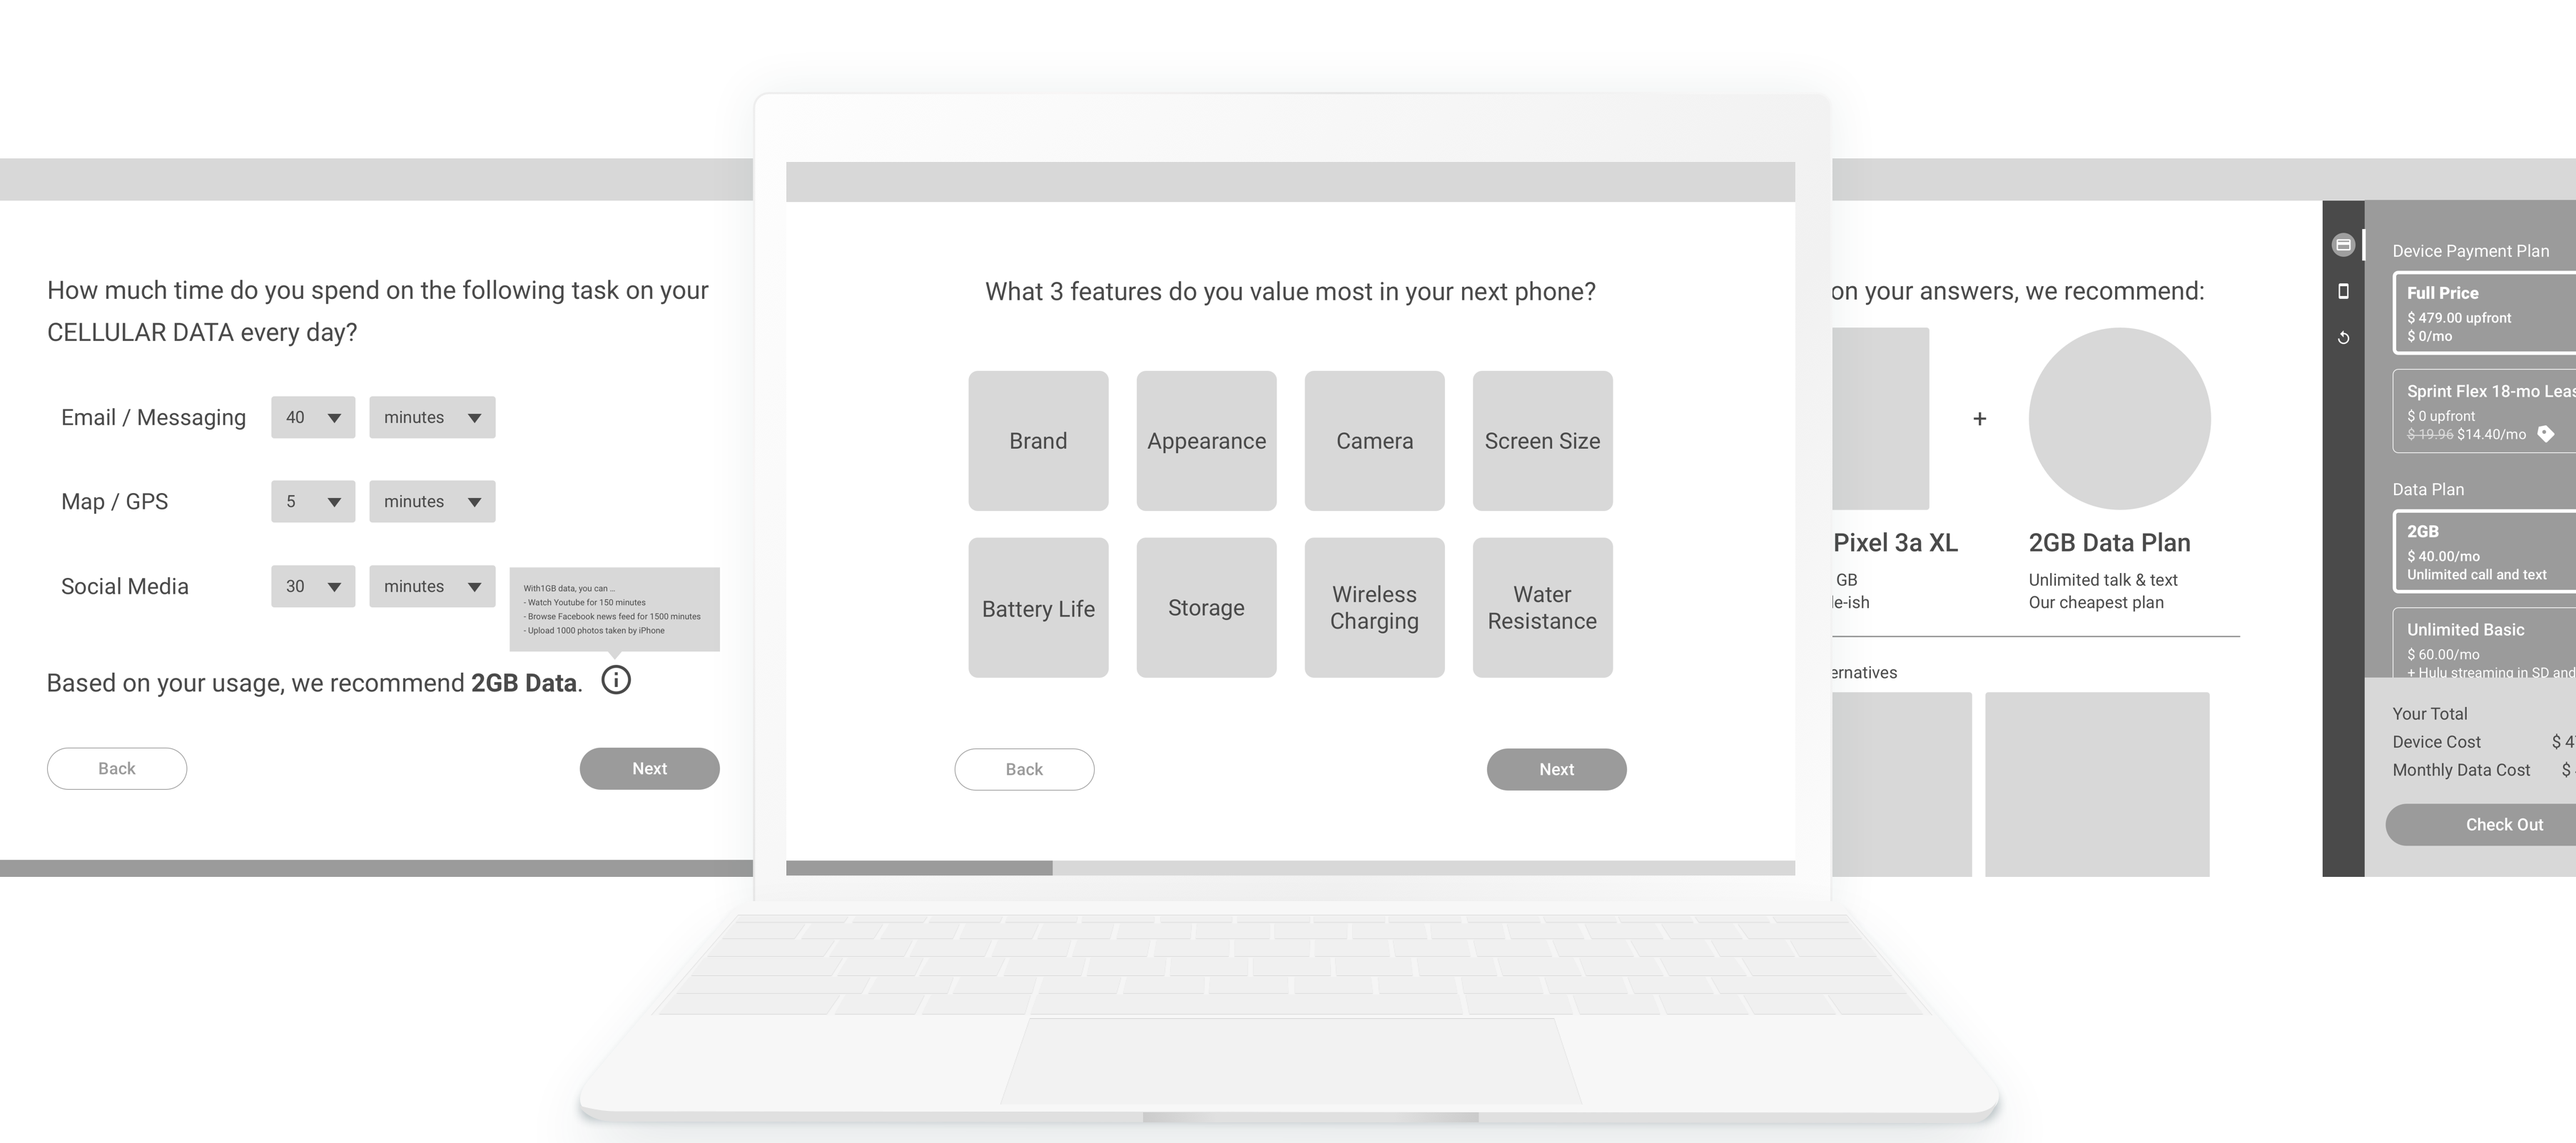
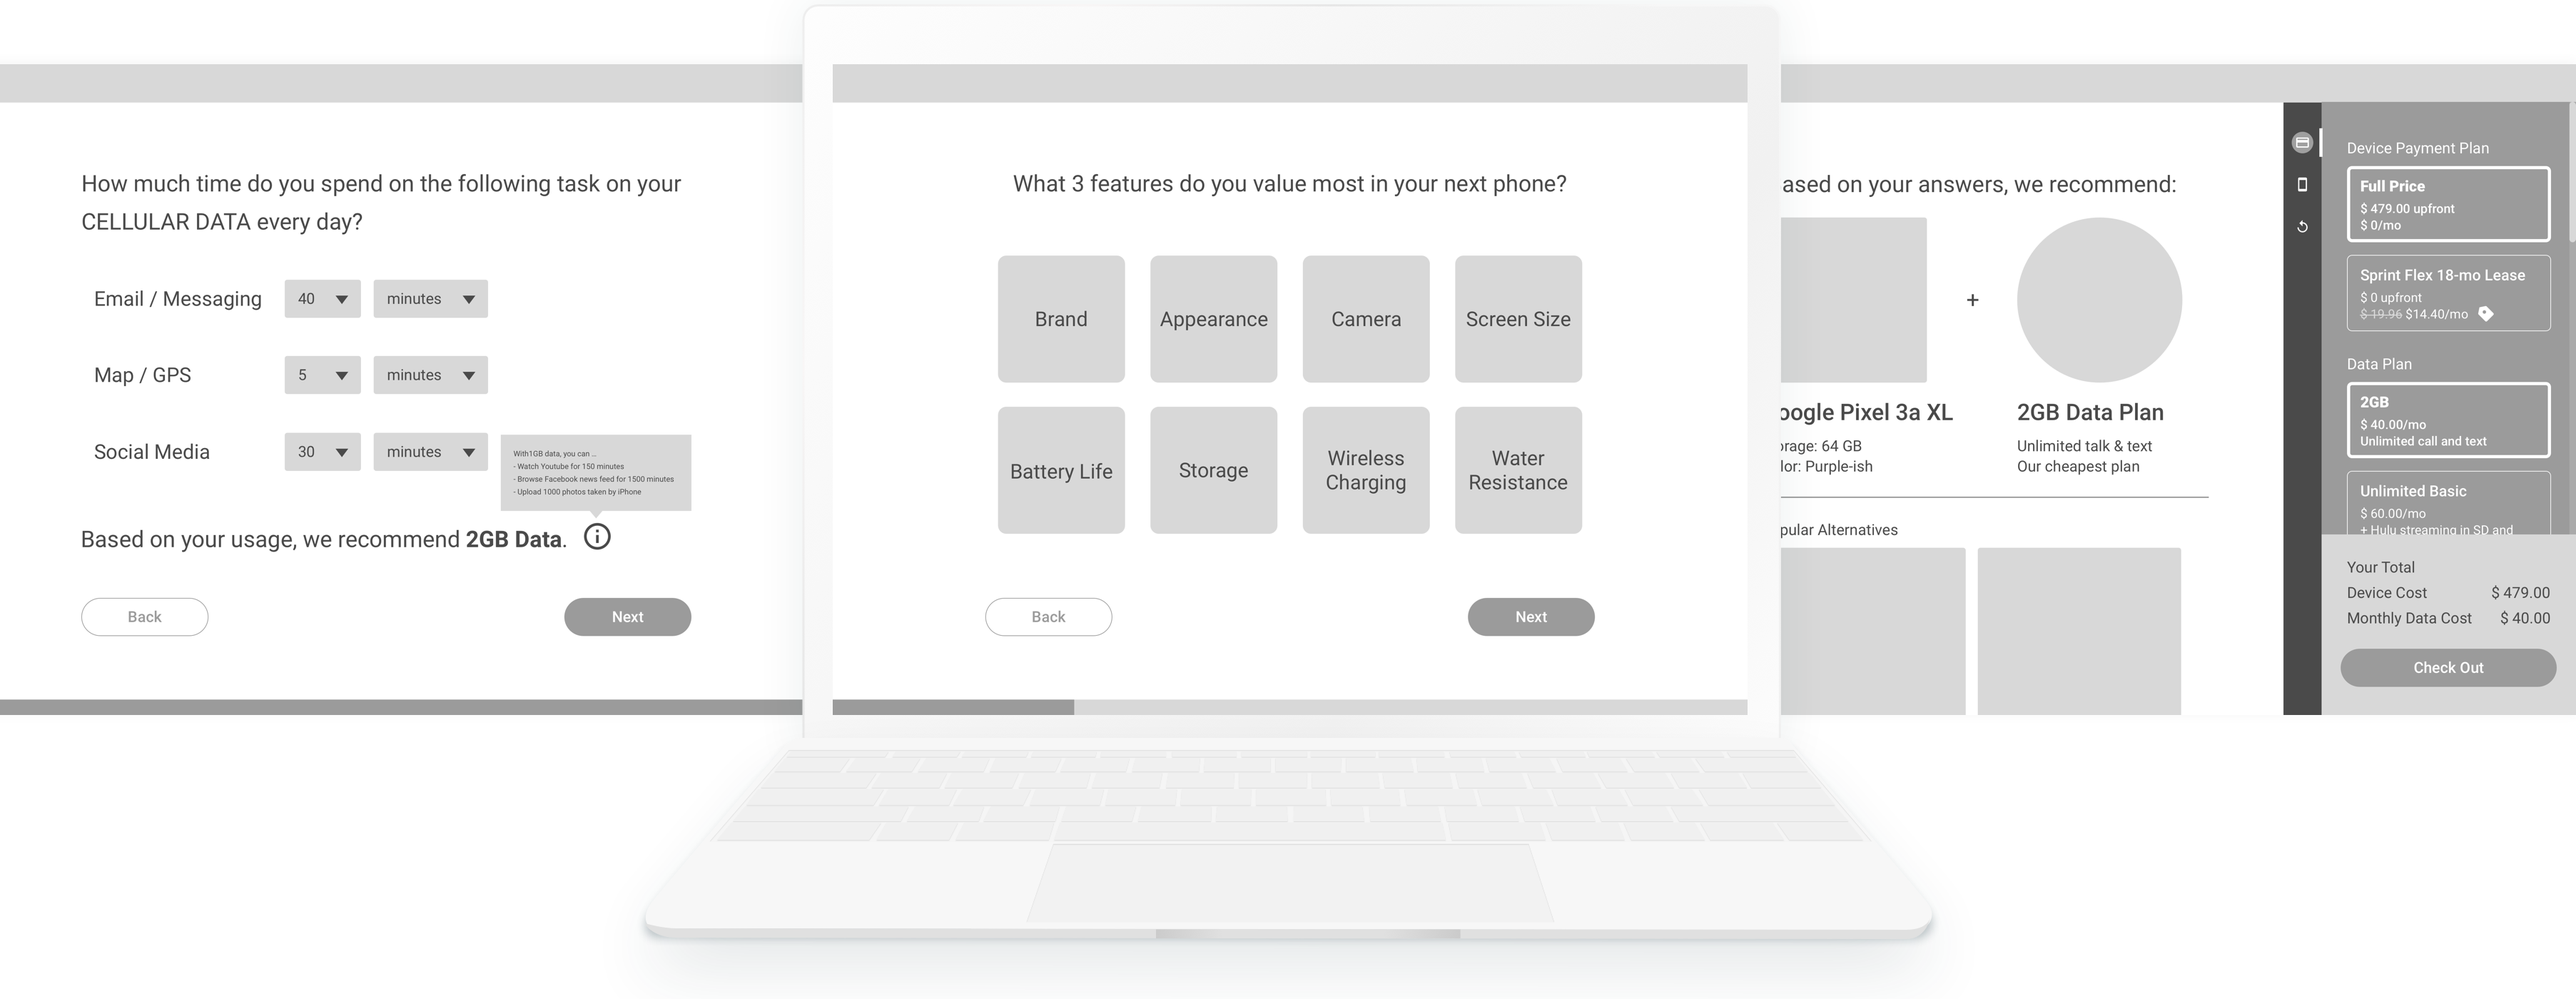
update

diff --git a/Sprint.html b/Sprint.html
@@ -131,7 +131,7 @@
                 <h4>Solution Overview</h4>
                 <h3>Focus on the REAL needs</h3>
                 <p>To uncover what meet the user needs, I came up with a quiz to walk them through the shopping experience. The quiz is short and focuses on the Top 3 features that users value and interact with most. This way, even under budget constraints, users can still enjoy the product and services that satisfies their most frequent use cases.</p>
-                <img src="img/portfolio/Sprint/Sprint_overview_v3.png" alt="Sprint overview">
+                <img src="img/portfolio/Sprint/Sprint_overview.png" alt="Sprint overview">
                 <h6>Screens of the quiz</h6>
                 <h4>The Research: An Ideal User Journey</h4>
                 <p>Users go with defaults because of time constraints. To figure out how to make the search process easier, I map out the user journey to understand what it takes to find products that best fit user needs.</p>
